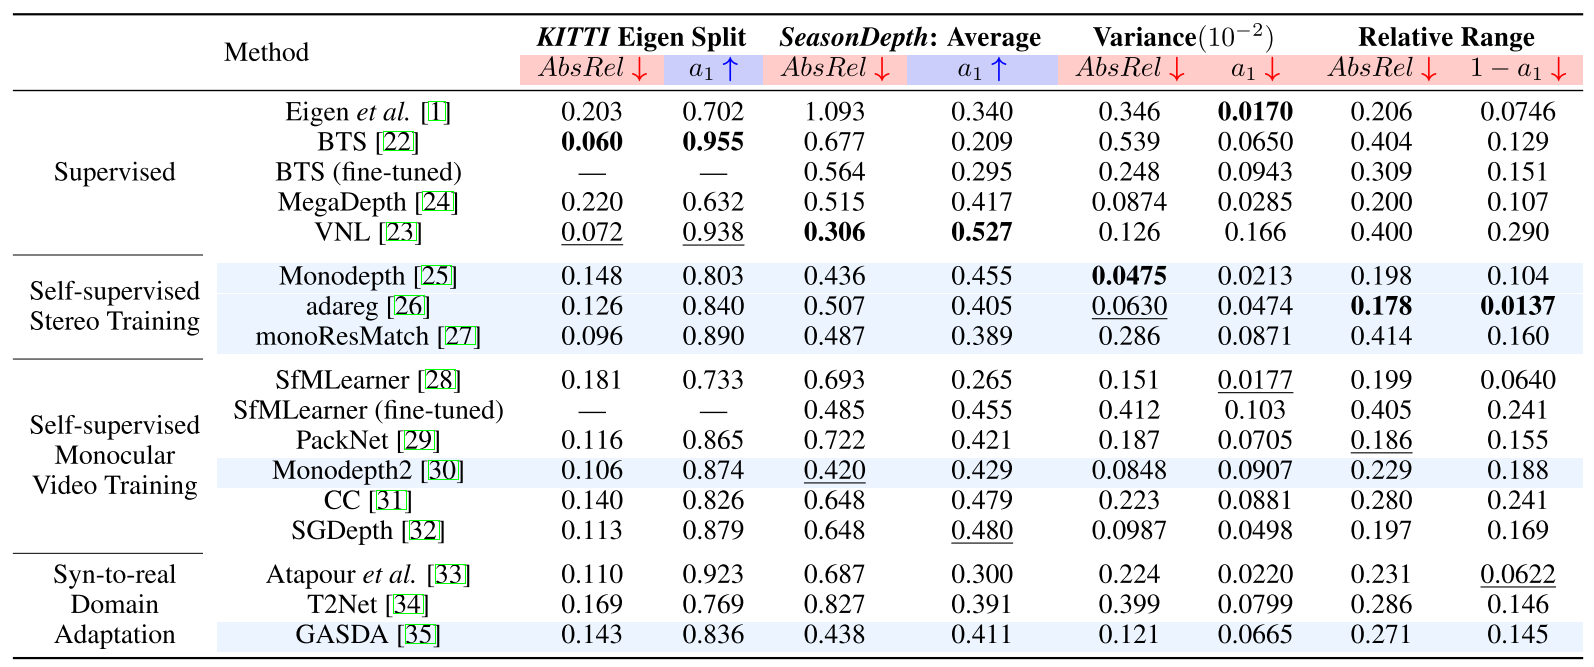
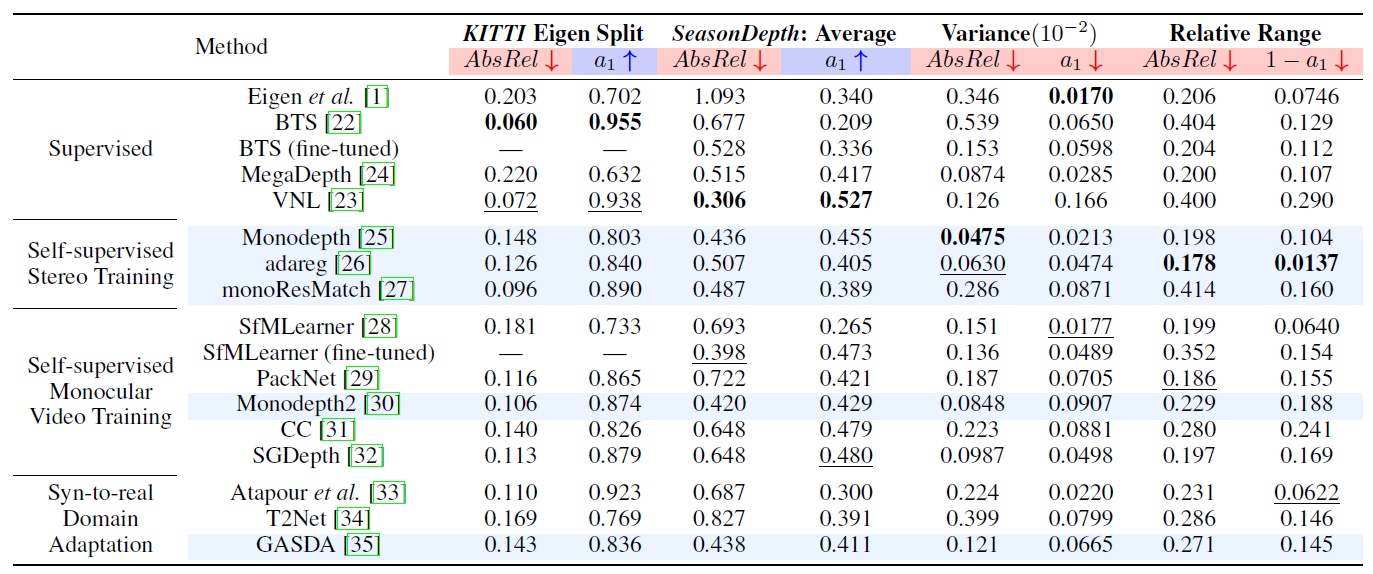
update v1.1

diff --git a/index.html b/index.html
@@ -66,6 +66,9 @@
       </h2>
     <p>
       <li>
+        <i>Aug. 28th, 2021 </i>: SeasonDepth training set v1.1 and the fine-tuned models released, including 3 new slices for model fine-tuning.
+      </li>
+      <li>
         <i>Jul. 20th, 2021 </i>: SeasonDepth training set v1 and the fine-tuned models released.
       </li>
       <li>
@@ -119,7 +122,7 @@
     </h3>
     <p>
       We have released the test splits of SeasonDepth for zero-shot evaluation, including RGB images and depth maps under twelve different environments. The released dataset is placed  in long-term preserved <i>figshare</i> with persistent identifier Digital Object Identifier (DOI) of <i>10.6084/m9.figshare.14731323</i>.
-        The test set is available <a href="https://doi.org/10.6084/m9.figshare.14731323">HERE</a>. The <a href="https://drive.google.com/file/d/1l-Ez1ETAR6GMGaIpghAb5oV1C18VgIAJ/view?usp=sharing">version 1.0 of training set</a> has been released together with the <a href="https://drive.google.com/file/d/1AbqhAmpcHH5D7fLvTLR8RpjDr0Ced6ri/view?usp=sharing">fine-tuned models</a> on that, feel free to follow <a href="https://github.com/cogaplex-bts/bts">BTS</a> and <a href="https://github.com/ClementPinard/SfmLearner-Pytorch">SfMLearner</a> repos to fine-tune or evaluate them for benchmark. The detailed format and structure of test and training set can be found <a href="https://github.com/SeasonDepth/SeasonDepth/tree/master/dataset_info">HERE</a>.
+        The test set is available <a href="https://doi.org/10.6084/m9.figshare.14731323">HERE</a>. The training set of v1.1 has a DOI of <i>10.6084/m9.figshare.16442025</i> and is available <a href="https://doi.org/10.6084/m9.figshare.16442025"> HERE</a> together with the <a href="https://drive.google.com/file/d/12Xt_l26ZTCq2M2Oim1BfS2ltur6cX7H6/view?usp=sharing">fine-tuned models</a> on that, feel free to follow <a href="https://github.com/cogaplex-bts/bts">BTS</a> and <a href="https://github.com/ClementPinard/SfmLearner-Pytorch">SfMLearner</a> repos to fine-tune or evaluate them for benchmark. The detailed format and structure of test and training set can be found <a href="https://github.com/SeasonDepth/SeasonDepth/tree/master/dataset_info#seasondepth-test-and-training-set-for-benchmark">HERE</a>.
     </p>
       
     <h3 >
@@ -133,7 +136,7 @@
       Dataset Details
     </h3>
     <p>
-        The detailed information about partitioning, structure layout and image format can be found <a href="https://github.com/SeasonDepth/SeasonDepth/tree/master/dataset_info">HERE</a>
+        The detailed information about partitioning, structure layout and image format can be found <a href="https://github.com/SeasonDepth/SeasonDepth/tree/master/dataset_info">HERE</a>.
     </p>
 
 
@@ -211,7 +214,7 @@
        </h2>
     <p>
       If you have any questions, please contact us through
-      <a href="seasondepth@outlook.com">seasondepth@outlook.com</a>.
+      <a href="mailto:seasondepth@outlook.com">seasondepth@outlook.com</a>.
     </p>
 
 
@@ -222,6 +225,6 @@
     <br><br><br>
 
     <hr>
-    <p>Last updated: <i>Jul. 20th, 2021 </i></p>
+    <p>Last updated: <i>Aug. 28th, 2021 </i></p>
   </div>
 
